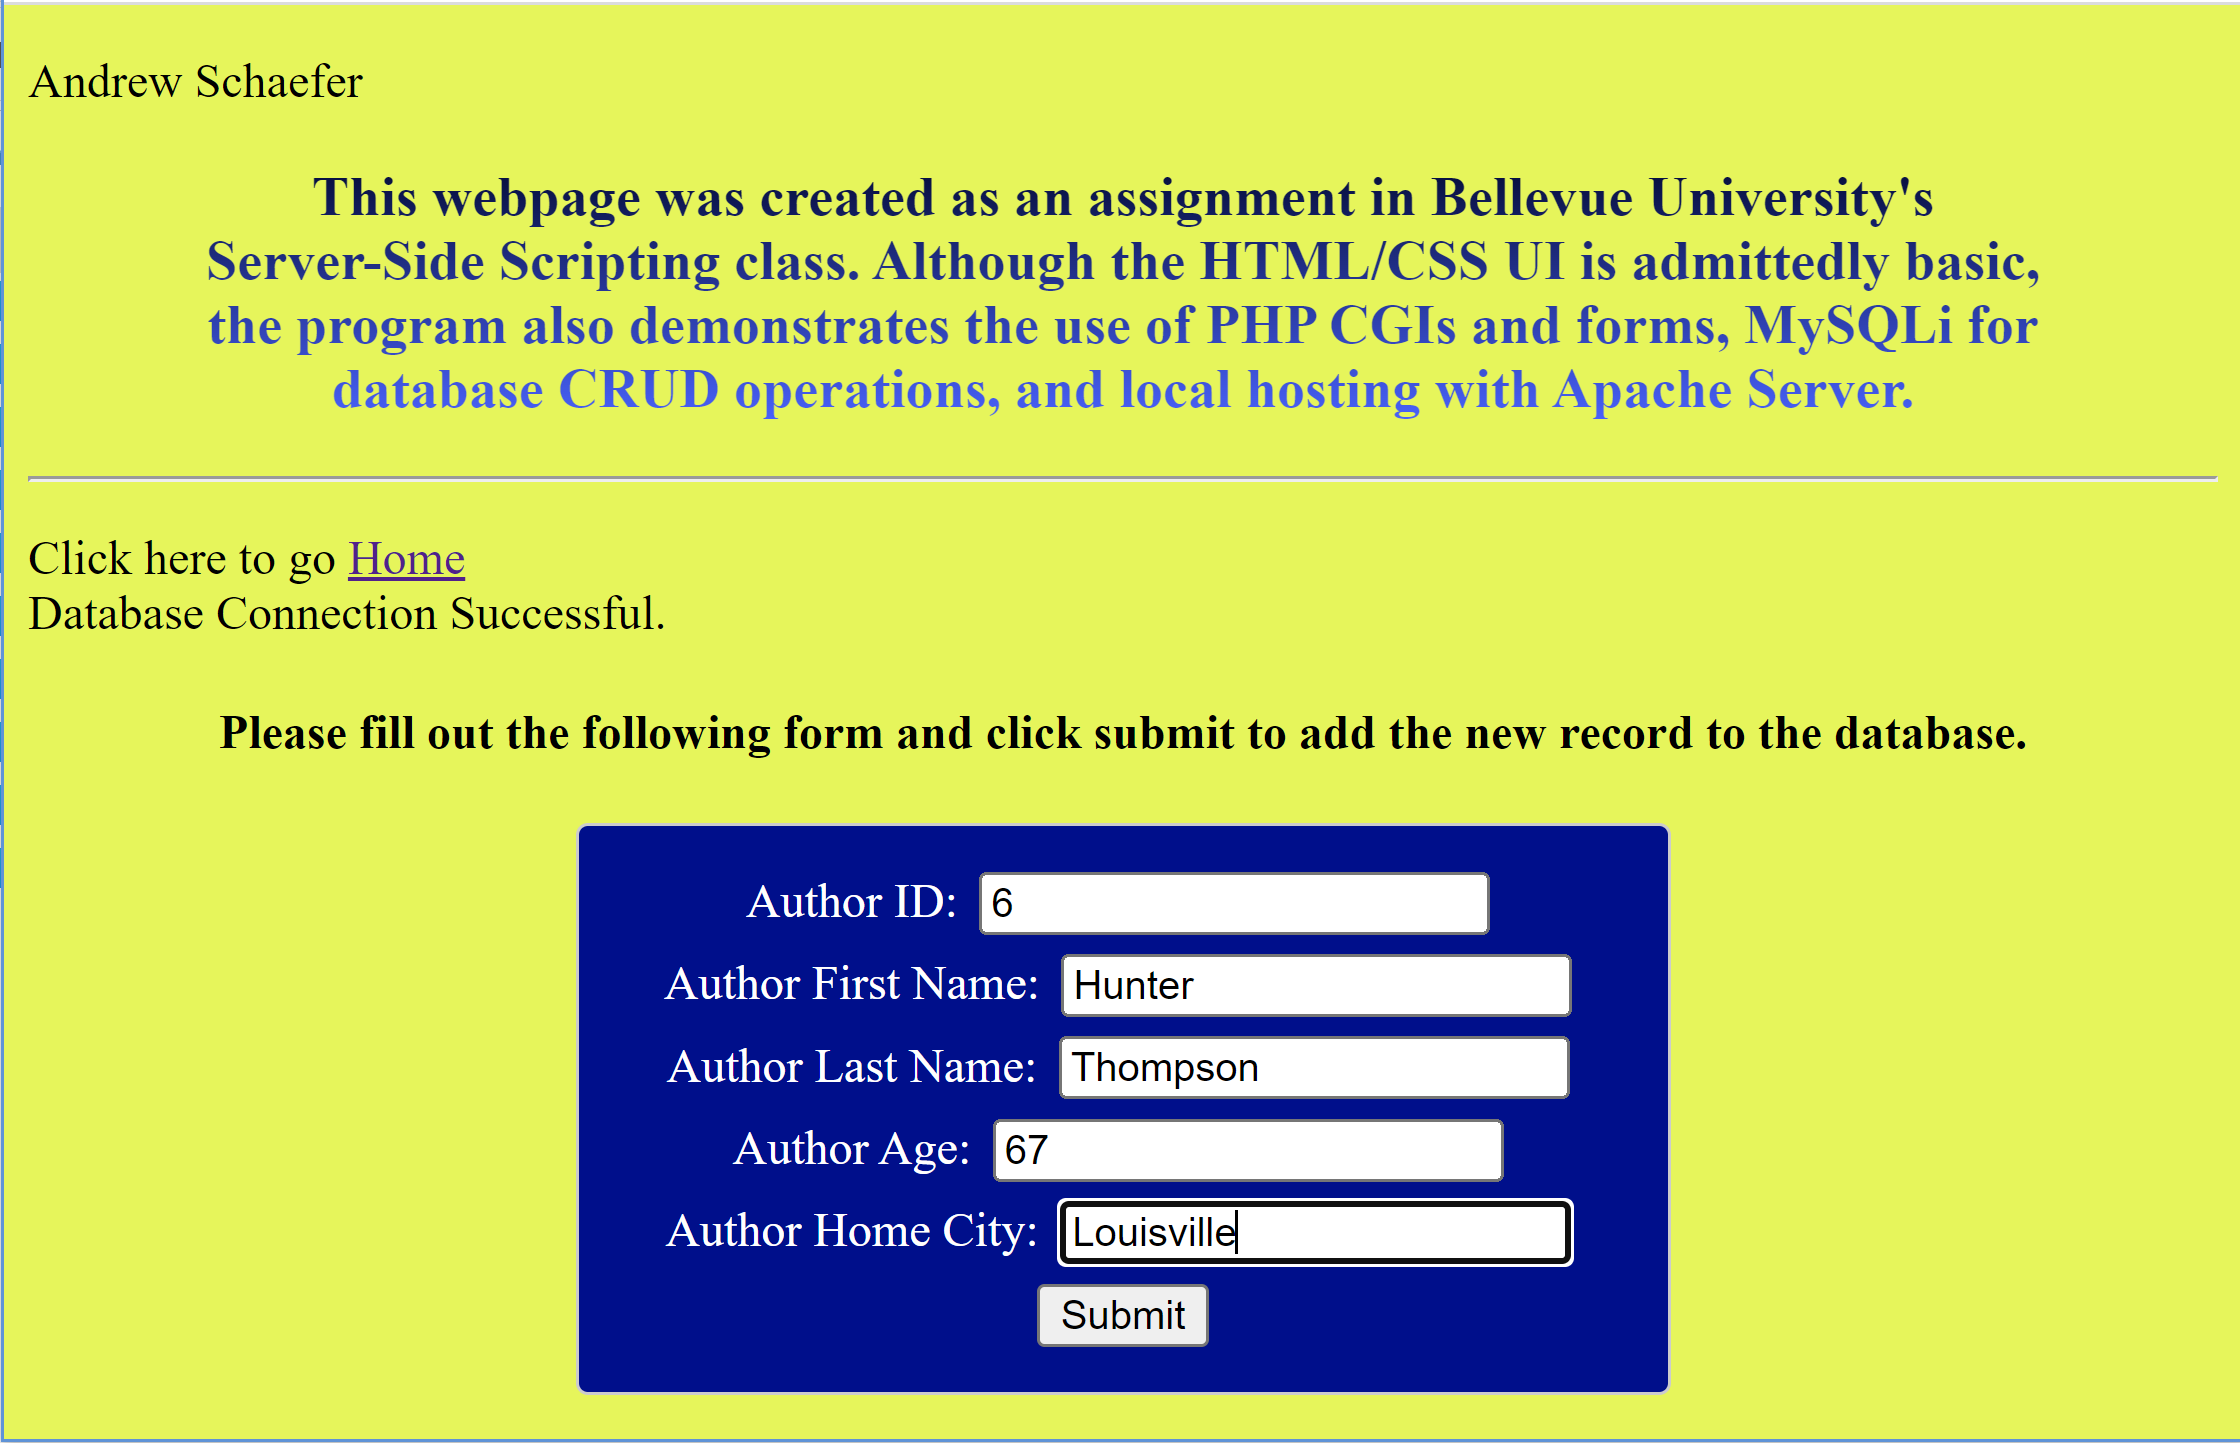
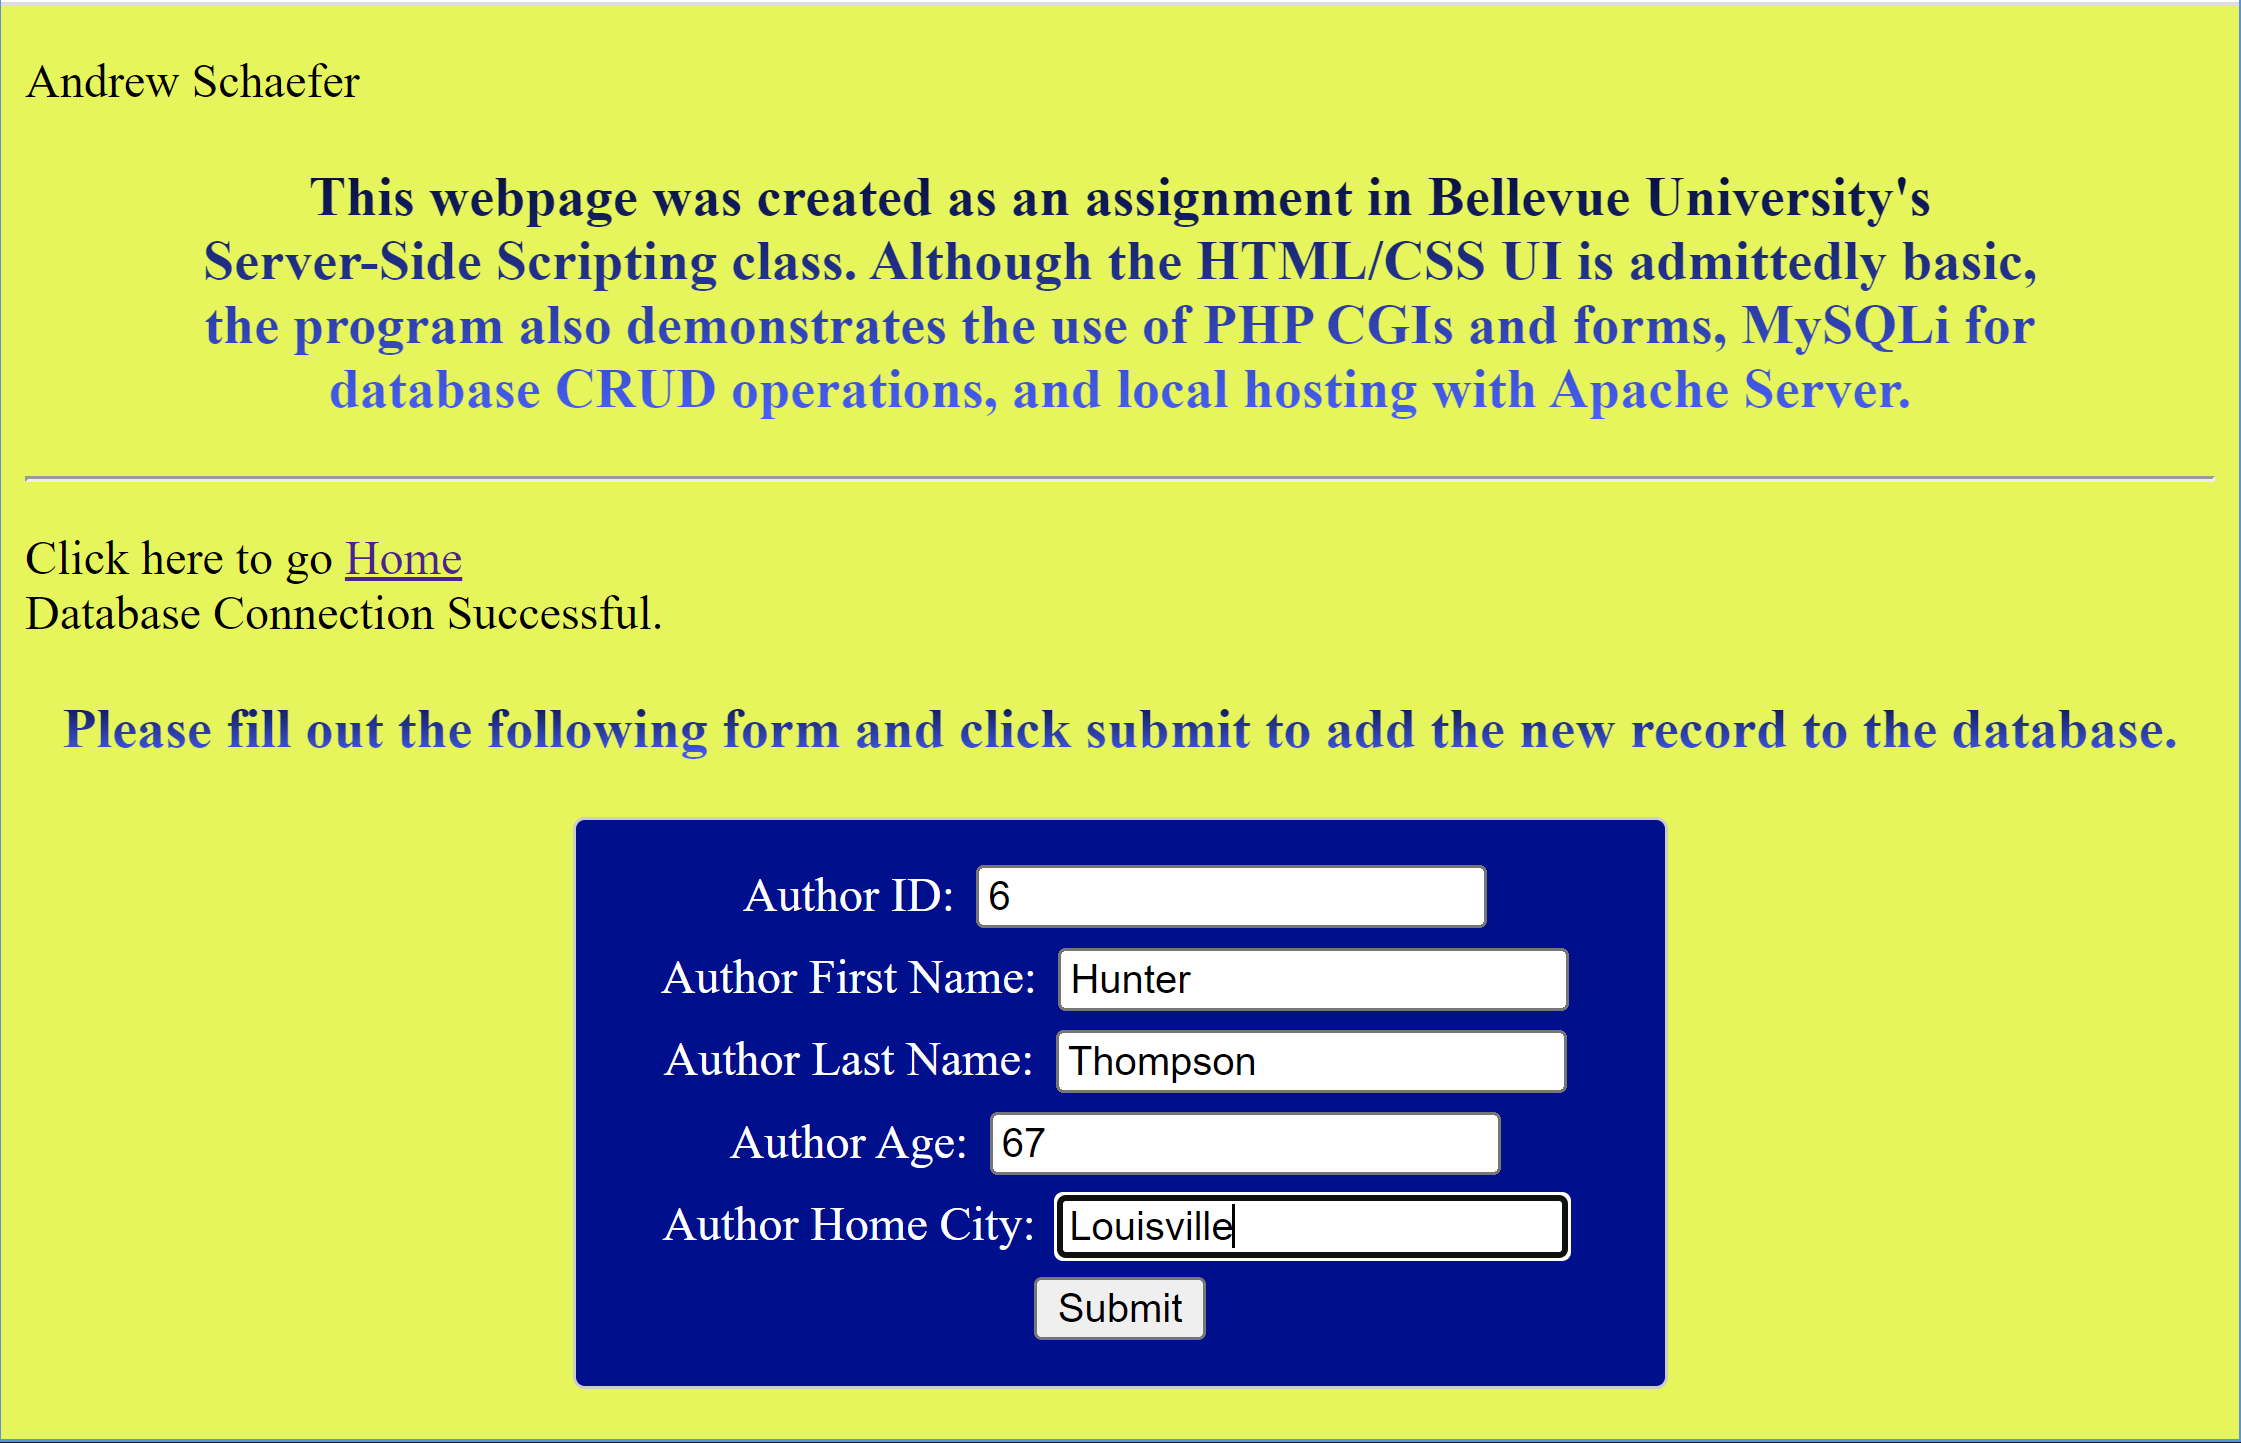
Typos fixed

diff --git a/andrewCreateTable.php b/andrewCreateTable.php
@@ -1,13 +1,17 @@
 <!-- Andrew Schaefer -->
 
-<!-------------------------------------------------------------------------------------------------------------->
-<!-- Assignment Instructions:                                                                                 -->
-<!-- Using MySQLi, write PHP programs (4 total) to create and populate a DB table to be used in Module 9.     -->
-<!-- You will need PHP scripts to: Create your table, drop your table, populate your table, and query to test -->
-<!-- your table. Your table is to have a minimum of 5 fields, with more than one data type.                   -->                                           
-<!-- Review the code documentation requirements and ensure you meet them in your code.                        -->
-<!-- Thoroughly test your code to verify it functions correctly and displays the correct output.              -->
-<!-------------------------------------------------------------------------------------------------------------->
+<!------------------------------------------------------------------------------------------------->
+<!-- Assignment Instructions:                                                                    -->
+<!-- For this assignment the database you will use is the one created in Module 8. Using MySQLi, --> 
+<!-- write PHP programs (3 files) that provide:                                                  --> 
+<!--                                                                                             -->
+<!-- 1. Index page with links to all following PHPs                                              --> 
+<!-- 2. Query page to search based on user form input                                            --> 
+<!-- 3. Form page for adding a record                                                            -->
+<!--                                                                                             --> 
+<!-- Review the code documentation requirements and ensure you meet them in your code.           -->
+<!-- Thoroughly test your code to verify it functions correctly and displays the correct output. -->
+<!------------------------------------------------------------------------------------------------->
 <?php
 include_once 'andrewDBCon.php';
 ?>
@@ -18,7 +22,7 @@ include_once 'andrewDBCon.php';
     <meta charset="UTF-8">
     <link rel="stylesheet" href="styles.css">
 
-    <title>Module 8 Assignment (a)</title>
+    <title>PHPCGIAndMySQLi</title>
 
 </head>
 

diff --git a/andrewDropTable.php b/andrewDropTable.php
@@ -3,14 +3,18 @@
 <!-- CSD440 -->
 <!-- Module 8 Assignment (d) -->
 
-<!-------------------------------------------------------------------------------------------------------------->
-<!-- Assignment Instructions:                                                                                 -->
-<!-- Using MySQLi, write PHP programs (4 total) to create and populate a DB table to be used in Module 9.     -->
-<!-- You will need PHP scripts to: Create your table, drop your table, populate your table, and query to test -->
-<!-- your table. Your table is to have a minimum of 5 fields, with more than one data type.                   -->                                           
-<!-- Review the code documentation requirements and ensure you meet them in your code.                        -->
-<!-- Thoroughly test your code to verify it functions correctly and displays the correct output.              -->
-<!-------------------------------------------------------------------------------------------------------------->
+<!------------------------------------------------------------------------------------------------->
+<!-- Assignment Instructions:                                                                    -->
+<!-- For this assignment the database you will use is the one created in Module 8. Using MySQLi, --> 
+<!-- write PHP programs (3 files) that provide:                                                  --> 
+<!--                                                                                             -->
+<!-- 1. Index page with links to all following PHPs                                              --> 
+<!-- 2. Query page to search based on user form input                                            --> 
+<!-- 3. Form page for adding a record                                                            -->
+<!--                                                                                             --> 
+<!-- Review the code documentation requirements and ensure you meet them in your code.           -->
+<!-- Thoroughly test your code to verify it functions correctly and displays the correct output. -->
+<!------------------------------------------------------------------------------------------------->
 <?php
 include_once 'andrewDBCon.php';
 ?>
@@ -20,7 +24,7 @@ include_once 'andrewDBCon.php';
 <head>
     <meta charset="UTF-8">
 
-    <title>Module 8 Assignment (d)</title>
+    <title>PHPCGIAndMySQLi</title>
 
     <style>
     body {

diff --git a/andrewPopulateTable.php b/andrewPopulateTable.php
@@ -3,14 +3,18 @@
 <!-- CSD440 -->
 <!-- Module 8 Assignment (b) -->
 
-<!-------------------------------------------------------------------------------------------------------------->
-<!-- Assignment Instructions:                                                                                 -->
-<!-- Using MySQLi, write PHP programs (4 total) to create and populate a DB table to be used in Module 9.     -->
-<!-- You will need PHP scripts to: Create your table, drop your table, populate your table, and query to test -->
-<!-- your table. Your table is to have a minimum of 5 fields, with more than one data type.                   -->                                           
-<!-- Review the code documentation requirements and ensure you meet them in your code.                        -->
-<!-- Thoroughly test your code to verify it functions correctly and displays the correct output.              -->
-<!-------------------------------------------------------------------------------------------------------------->
+<!------------------------------------------------------------------------------------------------->
+<!-- Assignment Instructions:                                                                    -->
+<!-- For this assignment the database you will use is the one created in Module 8. Using MySQLi, --> 
+<!-- write PHP programs (3 files) that provide:                                                  --> 
+<!--                                                                                             -->
+<!-- 1. Index page with links to all following PHPs                                              --> 
+<!-- 2. Query page to search based on user form input                                            --> 
+<!-- 3. Form page for adding a record                                                            -->
+<!--                                                                                             --> 
+<!-- Review the code documentation requirements and ensure you meet them in your code.           -->
+<!-- Thoroughly test your code to verify it functions correctly and displays the correct output. -->
+<!------------------------------------------------------------------------------------------------->
 <?php
 include_once 'andrewDBCon.php';
 ?>
@@ -20,7 +24,7 @@ include_once 'andrewDBCon.php';
 <head>
     <meta charset="UTF-8">
 
-    <title>Module 8 Assignment (b)</title>
+    <title>PHPCGIAndMySQLi</title>
 
     <style>
     body {

diff --git a/andrewQueryTable.php b/andrewQueryTable.php
@@ -3,14 +3,18 @@
 <!-- CSD440 -->
 <!-- Module 8 Assignment (c) -->
 
-<!-------------------------------------------------------------------------------------------------------------->
-<!-- Assignment Instructions:                                                                                 -->
-<!-- Using MySQLi, write PHP programs (4 total) to create and populate a DB table to be used in Module 9.     -->
-<!-- You will need PHP scripts to: Create your table, drop your table, populate your table, and query to test -->
-<!-- your table. Your table is to have a minimum of 5 fields, with more than one data type.                   -->                                           
-<!-- Review the code documentation requirements and ensure you meet them in your code.                        -->
-<!-- Thoroughly test your code to verify it functions correctly and displays the correct output.              -->
-<!-------------------------------------------------------------------------------------------------------------->
+<!------------------------------------------------------------------------------------------------->
+<!-- Assignment Instructions:                                                                    -->
+<!-- For this assignment the database you will use is the one created in Module 8. Using MySQLi, --> 
+<!-- write PHP programs (3 files) that provide:                                                  --> 
+<!--                                                                                             -->
+<!-- 1. Index page with links to all following PHPs                                              --> 
+<!-- 2. Query page to search based on user form input                                            --> 
+<!-- 3. Form page for adding a record                                                            -->
+<!--                                                                                             --> 
+<!-- Review the code documentation requirements and ensure you meet them in your code.           -->
+<!-- Thoroughly test your code to verify it functions correctly and displays the correct output. -->
+<!------------------------------------------------------------------------------------------------->
 <?php
 include_once 'andrewDBCon.php';
 ?>
@@ -20,7 +24,7 @@ include_once 'andrewDBCon.php';
 <head>
     <meta charset="UTF-8">
 
-    <title>Module 8 Assignment (c)</title>
+    <title>PHPCGIAndMySQLi</title>
 
     <style>
     body {

diff --git a/andrewDBCon.php b/andrewDBCon.php
@@ -1,13 +1,17 @@
 <!-- Andrew Schaefer -->
 
-<!-------------------------------------------------------------------------------------------------------------->
-<!-- Assignment Instructions:                                                                                 -->
-<!-- Using MySQLi, write PHP programs (4 total) to create and populate a DB table to be used in Module 9.     -->
-<!-- You will need PHP scripts to: Create your table, drop your table, populate your table, and query to test -->
-<!-- your table. Your table is to have a minimum of 5 fields, with more than one data type.                   -->                                           
-<!-- Review the code documentation requirements and ensure you meet them in your code.                        -->
-<!-- Thoroughly test your code to verify it functions correctly and displays the correct output.              -->
-<!-------------------------------------------------------------------------------------------------------------->
+<!------------------------------------------------------------------------------------------------->
+<!-- Assignment Instructions:                                                                    -->
+<!-- For this assignment the database you will use is the one created in Module 8. Using MySQLi, --> 
+<!-- write PHP programs (3 files) that provide:                                                  --> 
+<!--                                                                                             -->
+<!-- 1. Index page with links to all following PHPs                                              --> 
+<!-- 2. Query page to search based on user form input                                            --> 
+<!-- 3. Form page for adding a record                                                            -->
+<!--                                                                                             --> 
+<!-- Review the code documentation requirements and ensure you meet them in your code.           -->
+<!-- Thoroughly test your code to verify it functions correctly and displays the correct output. -->
+<!------------------------------------------------------------------------------------------------->
 
 <?php 
 $dbServerName = "localhost:3306";

diff --git a/andrewAddRecord.php b/andrewAddRecord.php
@@ -22,7 +22,7 @@ include_once 'andrewDBCon.php';
     <meta charset="UTF-8">
     <link rel="stylesheet" href="styles.css">
 
-    <title>Module 9 Assignment</title>
+    <title>PHPCGIAndMySQLi</title>
 
 <style>
     #infoDisplay {
@@ -72,7 +72,7 @@ if ($con -> connect_errno) {
 ?>
 
 <center>
-<h4>Please fill out the following form and click submit to add the new record to the database.</h4>
+<h3>Please fill out the following form and click submit to add the new record to the database.</h3>
 
 <form action='andrewInsertCGI.php' method='POST' id='infoDisplay'>
     Author ID: <input type='number' name='author_id' style='margin: 1%;' required><br>

diff --git a/andrewQueryForm.php b/andrewQueryForm.php
@@ -21,7 +21,7 @@ include_once 'andrewDBCon.php';
     <meta charset="UTF-8">
     <link rel="stylesheet" href="styles.css">
 
-    <title>Module 9 Assignment</title>
+    <title>PHPCGIAndMySQLi</title>
 
 </head>
 

diff --git a/andrewResultsCGI.php b/andrewResultsCGI.php
@@ -22,7 +22,7 @@ include_once 'andrewDBCon.php';
     <meta charset="UTF-8">
     <link rel="stylesheet" href="styles.css">
 
-    <title>Module 9 Assignment</title>
+    <title>PHPCGIAndMySQLi</title>
 
 </head>
 

diff --git a/andrewInsertCGI.php b/andrewInsertCGI.php
@@ -22,7 +22,7 @@ include_once 'andrewDBCon.php';
     <meta charset="UTF-8">
     <link rel="stylesheet" href="styles.css">
 
-    <title>Module 9 Assignment</title>
+    <title>PHPCGIAndMySQLi/title>
 
 </head>
 

diff --git a/index.php b/index.php
@@ -19,7 +19,7 @@
     <meta charset="UTF-8">
     <link rel="stylesheet" href="styles.css">
 
-    <title>Module 9 Assignment</title>
+    <title>PHPCGIAndMySQLi</title>
 
 </head>
 
